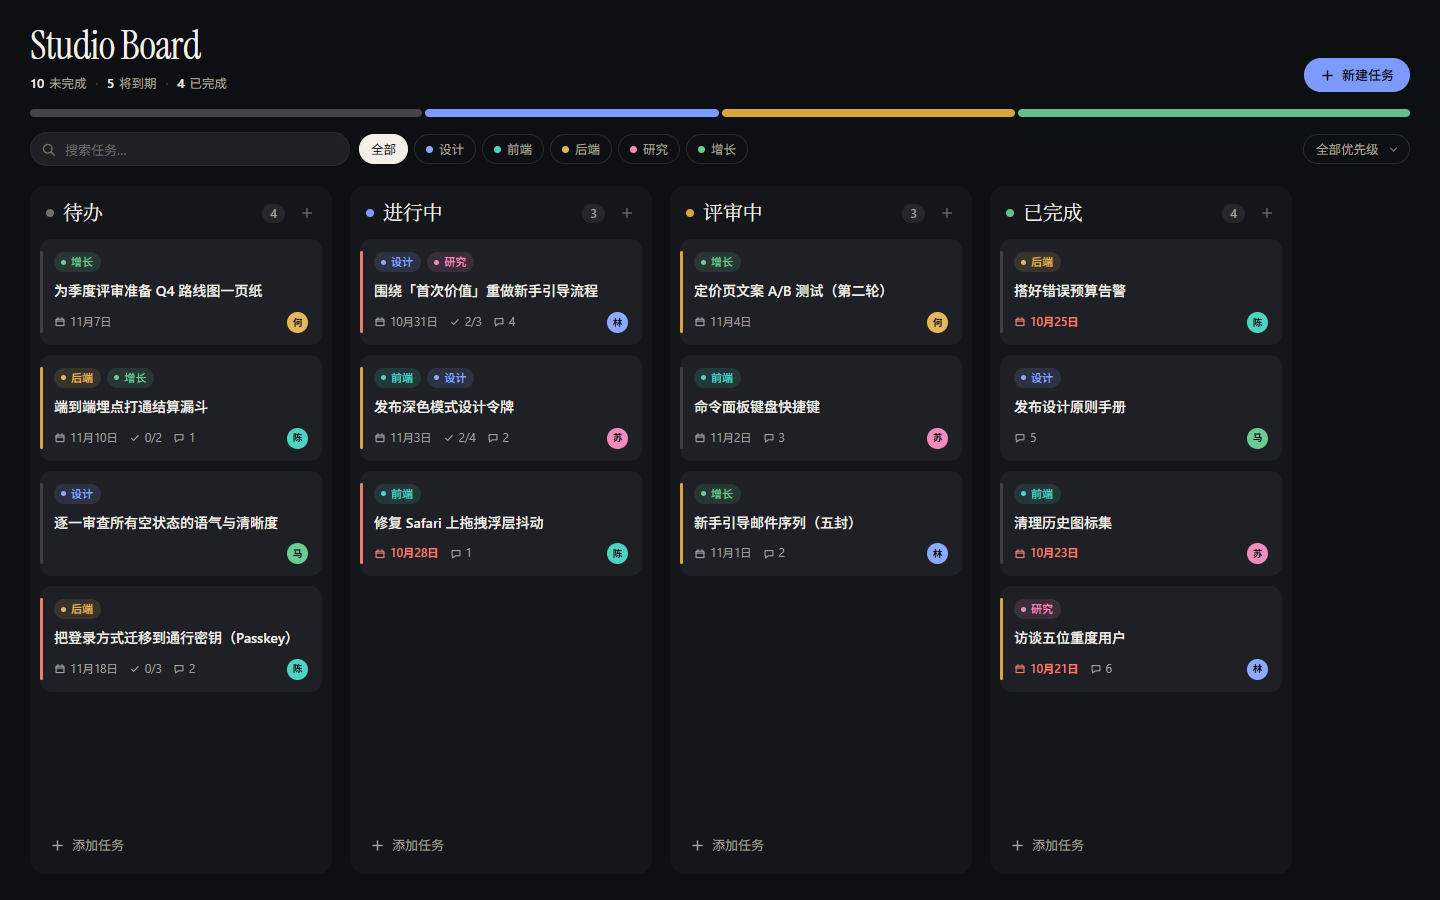
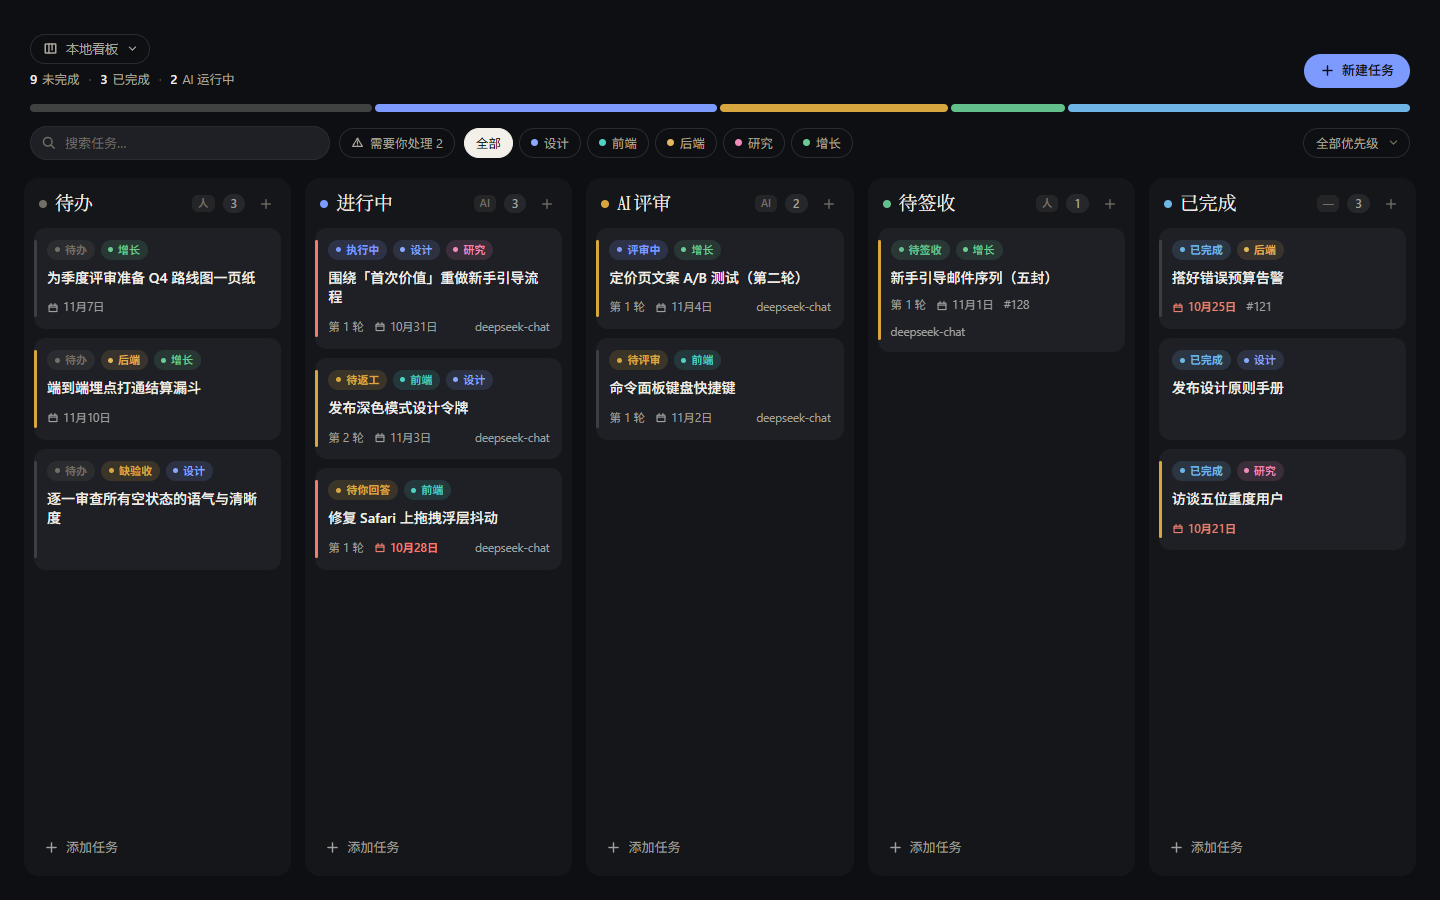
docs: 更新插件 README 与截图

diff --git a/README.md b/README.md
@@ -1,21 +1,39 @@
 # dsh-task-board
 
-> DeepSeek Harness 的 AI 任务看板插件：每个工作区一块板，拖拽流转，支持任务规格、评审泳道与人工签收。
+> DeepSeek Harness 的 AI 任务看板插件：每个工作区一块板，拖拽流转；任务交给 AI 在独立工作树里执行，
+> AI 独立评审，通过后由人签字；支持 PR / 本地变更集、补丁导出与合并清理。
 
 ![看板 · 浅色](screenshots/01-desktop-light.png)
 
 ## 功能
 
 - **侧栏入口 + 主面板**：左侧栏新增「看板」图标，点击切换到看板页面。
-- **每个工作区一块板**：看板按 workspaceId 隔离，顶部项目切换器可切换工作区。
+- **每个工作区一块板**：看板按工作区隔离，顶部项目切换器切换；每个工作区第一次打开是空板。
 - **五条泳道**：待办 / 进行中 / AI 评审 / 待签收 / 已完成；卡片带状态徽标、轮次、执行模型、PR 号。
-- **拖拽流转**：鼠标与触控拖拽，抬起浮层、目标泳道高亮、落位缺口；键盘 `Alt+←/→` 换栏，`Esc` 取消。
-- **任务规格**：验收标准、执行模型、评审模型、预算（轮数 / token / 分钟）、基线（HEAD 或分支 + 忽略未提交改动）。
-- **详情抽屉**：标题、状态、负责人、截止日期、优先级、标签、检查清单、备注、删除。
-- **搜索与筛选**：搜索、标签筛选、优先级筛选，统计行实时更新。
-- **「需要你处理」收件箱**：跨列聚合待回答、待批准、待签字、受阻、失败。
-- **人工签收**：待签收卡片可在抽屉里「通过签字 / 打回返工」。
-- **Host 持久化**：看板数据由 Host 侧写入 `$DSH_HOME/task-board/<workspaceId>.json`，刷新和重启不丢。
+- **拖拽流转**：鼠标与触控拖拽，抬起浮层、目标泳道高亮、落位缺口；键盘 `Alt+←/→` 换栏（规则同拖拽），
+  `Esc` 取消。只有「待办 / 受阻 / 失败 / 已取消」可以拖进「进行中」，其余换栏由 AI 与交付流程推进。
+- **任务规格**：需求（标题 / 背景与约束 / 验收标准）、执行设置（执行模型 / 评审模型 / 预算 / 基线）
+  折叠收纳；验收标准必填，缺失时不能开始。
+- **AI 执行**：开始后，Host 为任务创建（或复用）独立任务副本（git worktree），起执行会话按需求干活；
+  执行会话可以主动向人提问，也可以在完成时提交评审。
+- **AI 评审回环**：执行完成后另起一个只读评审会话，能看变更、能跑白名单验证命令；评审打回时，意见
+  自动回到执行会话返工（轮次 +1），达到轮数上限转为人工处理。
+- **交付物**：评审通过后记录本地变更集（分支 / 基线 / 变更统计 / 补丁）；有远程仓库时可以「补建 PR」，
+  也可以导出 `.patch`。
+- **人工签收**：待签收任务可「通过签字」（带备注，可勾选签字后合并）或「打回返工」（意见回到执行会话）；
+  已完成任务可「一键合并」（squash）或「清理工作树」。
+- **需要你处理**：顶部收件箱聚合待回答、待签字、待补建 PR、交付失败、受阻、失败；任务抽屉里有问题原文
+  和回答框。
+- **详情抽屉**：先写需求，再交给 AI——验收必填；「AI 将收到的指令」可展开核对；执行记录只读展示每次
+  执行会话、评审结论（含 `file:line` 的必须修复项）、交付物 / PR / 签字 / 失败原因；状态只读，主行动
+  随状态变化；删除需二段确认。
+- **归类**：优先级、截止日期、标签默认折叠，不打断写需求；搜索、标签筛选、优先级筛选实时更新。
+- **非 Git 工作区引导**：工作区不是 Git 仓库时，顶部提示除「重新检测」外提供「立即创建 Git 仓库」——
+  点击后插件会在该工作区新建一个会话并发送初始化指令（`git init` + 首次提交），完成后回到看板点
+  「重新检测」即可开始执行任务。
+- **实时更新**：页面可见且看板有正在推进的任务或抽屉打开时，每 2.5 秒同步一次 Host 数据；保存冲突会
+  自动刷新并提示，不会静默覆盖别人的修改。
+- **样例模式**：在面板地址后加 `?demo=1` 可加载一份中文样例板，便于先看效果（默认不再塞样例数据）。
 
 ![任务详情](screenshots/02-drawer-light.png)
 
@@ -34,7 +52,7 @@
 3. 粘贴下面的 spec：
 
 ```
-github:OWNER/dsh-task-board
+github:a285292107s/dsh-task-board
 ```
 
 4. 点 **Install**，完成后点 **Enable now**。
@@ -42,13 +60,13 @@ github:OWNER/dsh-task-board
 ### 方式二：命令行
 
 ```bash
-dsh plugin --profile web add github:OWNER/dsh-task-board
+dsh plugin --profile web add github:a285292107s/dsh-task-board
 ```
 
 固定版本（推荐，避免上游变动）：
 
 ```bash
-dsh plugin --profile web add github:OWNER/dsh-task-board#v0.1.0
+dsh plugin --profile web add github:a285292107s/dsh-task-board#v0.2.0
 ```
 
 安装后重启 `dsh web`（或依赖 HMR 生效），左侧栏会出现「看板」入口。
@@ -58,7 +76,7 @@ dsh plugin --profile web add github:OWNER/dsh-task-board#v0.1.0
 ```bash
 # 升级：先移除再安装新 tag
 dsh plugin --profile web remove dsh-task-board
-dsh plugin --profile web add github:OWNER/dsh-task-board#v0.2.0
+dsh plugin --profile web add github:a285292107s/dsh-task-board#v0.2.0
 
 # 卸载
 dsh plugin --profile web remove dsh-task-board
@@ -68,15 +86,32 @@ dsh plugin --profile web remove dsh-task-board
 
 ## 使用
 
-- 顶部项目切换器选择工作区；每个工作区第一次打开会懒创建一块空板。
-- 点「新建」或按 `N` 创建任务；`/` 聚焦搜索；`Esc` 关闭抽屉。
-- 拖入「进行中」会调用 Host 的 `/task-board-api/start`：校验 Git 仓库、必要时创建任务工作树，并（开启自动执行时）创建执行会话。
-- 看板本身不要求工作区是 Git 仓库；只有「执行」相关动作需要。
+1. 顶部项目切换器选择工作区；点「新建」或按 `N` 创建任务。
+2. 在抽屉里写清**标题 + 背景 + 验收标准**。需要指定模型时可填「执行模型 / 评审模型」（留空用宿主
+   默认，格式 `provider/model`，即宿主里已配置的服务提供方与模型名）；预算与基线默认跟随看板默认值。
+3. 点「开始执行」，或把卡片拖入「进行中」。前提：工作区是 Git 仓库且至少有一次提交，并且不是另一个
+   工作树副本；工作区有未提交改动时，需要勾选「以当前 HEAD 为基线，忽略未提交改动」。
+4. AI 在独立任务副本里执行，完成后自动进入 AI 评审。评审打回会自动返工；达到轮数上限则转为人工处理。
+   AI 需要你补充信息时，抽屉会显示问题，回答后会回到原会话继续。
+5. 评审通过后进入「待签收」。在抽屉里核对执行记录、评审意见与交付物：
+   - **通过签字**：可写备注；勾选「签字后合并到根仓库当前分支」则先合并再标完成。
+   - **打回返工**：备注作为返工意见回到执行会话。
+   - **补建 PR**：有远程仓库时可把任务分支推上去并创建/绑定 PR。
+   - **导出补丁**：下载 `.patch`。
+6. 已完成任务可「一键合并」（squash 到根仓库当前分支，要求根仓库干净）或「清理工作树」（移除任务
+   副本与分支）。取消的任务也可以清理。
+
+看板本身不要求工作区是 Git 仓库；只有「执行」相关动作需要。工作区还不是 Git 仓库时，看板顶部会给出
+「立即创建 Git 仓库」：插件在该工作区新建一个会话并让 AI 执行 `git init` 与首次提交，完成后回到看板点
+「重新检测」即可开始执行任务。
 
 ## 数据与隐私
 
-- 看板数据保存在 `$DSH_HOME/task-board/<workspaceId>.json`，只在本机。
-- 插件不会上传任何数据；网络请求只发生在你主动触发模型执行时。
+- 看板数据保存在 `$DSH_HOME/task-board/<workspaceId>.json`，状态变更另记一份本机审计日志
+  `<workspaceId>.audit.jsonl`；只在本机。
+- 插件不上传任何数据、不采集遥测；网络请求只发生在你主动触发模型执行、AI 评审或创建 PR 时。
+- 每个任务的工作树建在仓库内 `.agents/worktrees/`；合并、推送与清理都是你显式触发的动作。
+- 每次执行/评审记录的 token 用量仅写入本机执行记录，当前不会因预算自动中止。
 - `/task-board-api/git` 只允许读取已注册工作区内的路径，工作区外返回 403。
 
 ## 开发
@@ -105,9 +140,19 @@ dsh --profile kanban-dev --port 3081
 
 ## 状态
 
-- ✅ 每工作区看板、五泳道、拖拽、任务表单、收件箱、人工签收、Host 持久化
-- ✅ `/task-board-api`：workspaces / git 探测 / board 读写 / worktree 启动
-- 🚧 AI 执行会话与评审回环（P1）：执行 → 评审 → 打回 / 通过 → PR → 合并
+- ✅ 每工作区看板、五泳道、拖拽、任务抽屉（需求 / 执行记录 / 执行设置 / 归类）、收件箱、搜索筛选
+- ✅ 验收标准作为启动闸门：抽屉「开始执行」与拖入「进行中」两条路径都校验
+- ✅ 独立任务工作树 + AI 执行会话；每次执行/评审可查看会话 id、摘要与证据
+- ✅ AI 评审回环：独立只读评审、通过 / 打回、`file:line` 必须修复项、返工 round+1、轮数上限转人工
+- ✅ `needs_input` 回答后回到执行 / 评审会话
+- ✅ 交付物（本地变更集、PR、补丁）、人工签字 / 打回、合并、清理工作树
+- ✅ Host 持久化（含版本冲突检测与审计日志）、2.5 秒轮询、离线本地兜底
+- ✅ 非 Git 工作区一键引导：新建会话并发送初始化指令（`git init` + 首次提交）
+- 🚧 token 预算熔断与成本看板（现在只记录）
+- 🚧 等待批准（`approve`）分支
+- 🚧 任务依赖 / 并行拆分（DAG、Team）、看板设置页、多语言
+- 🚧 PR checks 自动刷新、自动 rebase、工作树保留期策略
+- 🚧 真实 DSH 实例端到端验证（尚未在真实宿主复验）
 
 ## License
 
